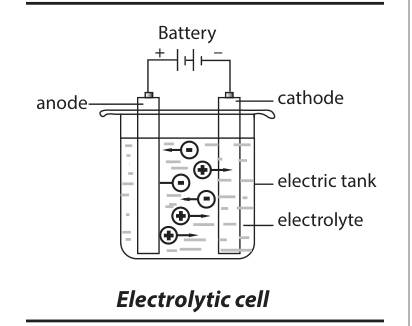
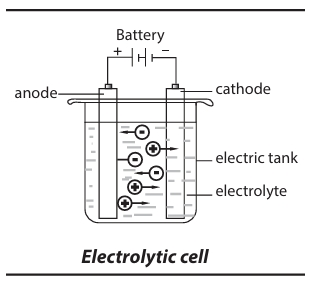
Section E-F Batch 2: 10 diagrams (electric motor, electrolytic cell, EM spectrum, ellipse, ellipsoid, electrophilic sub, etc.)

Changed region(s): [[0.0, 0.0, 1.0, 1.0]]

diff --git a/core_dictionary_diagrams.js b/core_dictionary_diagrams.js
@@ -1,5 +1,3 @@
-// core_dictionary_diagrams.js (Audited STEM Diagram Mappings)
-
 const DictionaryDiagrams = {
   "1,2-diaminoethane": "diagrams/dict_ethylenediamine.png",
   "1,2-dibromoethane": "diagrams/dict_dibromoethane.png",
@@ -169,6 +167,7 @@ const DictionaryDiagrams = {
   "animal husbandry": "diagrams/dict_animal_husbandry.png",
   "annular eclipse": "diagrams/dict_annular_eclipse.png",
   "annulus": "diagrams/dict_annulus.png",
+  "anode": "diagrams/dict_electrolytic_cell.png",
   "anomalous expansion of water": "diagrams/dict_anomalous_expansion_of_water.png",
   "anomalous magnetic moment": "diagrams/dict_anomalous_magnetic_moment.png",
   "anomer": "diagrams/dict_anomer.png",
@@ -406,6 +405,7 @@ const DictionaryDiagrams = {
   "captan": "diagrams/dict_captan.png",
   "carbocation": "diagrams/dict_carbocation.png",
   "carbocation structure": "diagrams/dict_carbocation_structure.png",
+  "carbon brush": "diagrams/dict_electric_motor.png",
   "carbon cycle": "diagrams/dict_carbon_cycle.png",
   "carbon dating": "diagrams/dict_carbon_dating_carbon_14_dating.png",
   "carbon dating (carbon-14 dating)": "diagrams/dict_carbon_dating_carbon_14_dating.png",
@@ -425,6 +425,7 @@ const DictionaryDiagrams = {
   "castor tree": "diagrams/dict_castor_tree.png",
   "catechol": "diagrams/dict_catechol.png",
   "categories of rays": "diagrams/dict_beam_of_light.png",
+  "cathode": "diagrams/dict_electrolytic_cell.png",
   "cathode ray": "diagrams/dict_cathode_ray.png",
   "cathode ray tube": "diagrams/dict_cathode_ray_tube.png",
   "cathode ray tube (crt)": "diagrams/dict_cathode_ray_tube_crt.png",
@@ -522,6 +523,7 @@ const DictionaryDiagrams = {
   "coleoptile": "diagrams/dict_coleoptile.png",
   "coleorhiza": "diagrams/dict_coleorhiza.png",
   "colocasia esculenta": "diagrams/dict_corm_cocoyam.png",
+  "commutator": "diagrams/dict_electric_motor.png",
   "complete bipartite graph": "diagrams/dict_complete_bipartite_graph.png",
   "complete graph": "diagrams/dict_complete_graph.png",
   "component": "diagrams/dict_component.png",
@@ -742,8 +744,11 @@ const DictionaryDiagrams = {
   "electric field lines": "diagrams/dict_electric_field_lines.png",
   "electric lines of force": "diagrams/dict_electric_lines_of_force.png",
   "electric lines of force (electric flux line)": "diagrams/dict_electric_lines_of_force_electric_flux_line.png",
+  "electric motor": "diagrams/dict_electric_motor.png",
   "electric organ": "diagrams/dict_electric_organ.png",
   "electrochemical series": "diagrams/dict_electrochemical_series.png",
+  "electrolysis": "diagrams/dict_electrolytic_cell.png",
+  "electrolyte": "diagrams/dict_electrolytic_cell.png",
   "electrolytic cell": "diagrams/dict_electrolytic_cell.png",
   "electromagnetic energy": "diagrams/dict_electromagnetic_energy.png",
   "electromagnetic induction": "diagrams/dict_electromagnetic_induction_magnetic_induction.png",
@@ -751,9 +756,13 @@ const DictionaryDiagrams = {
   "electromagnetic radiation": "diagrams/dict_electromagnetic_radiation_e_m_radiation_emr.png",
   "electromagnetic radiation (e-m radiation; emr)": "diagrams/dict_electromagnetic_radiation_e_m_radiation_emr.png",
   "electromagnetic spectrum": "diagrams/dict_electromagnetic_spectrum.png",
+  "electromagnetic wave": "diagrams/dict_electromagnetic_radiation.png",
+  "electrophile": "diagrams/dict_electrophilic_substitution.png",
   "electrophilic substitution": "diagrams/dict_electrophilic_substitution.png",
+  "electrophilic substitution in aromatics": "diagrams/dict_electrophilic_substitution.png",
   "electroscope": "diagrams/dict_electroscope.png",
   "element": "diagrams/dict_element.png",
+  "ellipse": "diagrams/dict_ellipse.png",
   "ellipsoid": "diagrams/dict_ellipsoid_spheroid.png",
   "ellipsoid (spheroid)": "diagrams/dict_ellipsoid_spheroid.png",
   "elliptic curve": "diagrams/dict_elliptic_curve.png",
@@ -837,6 +846,7 @@ const DictionaryDiagrams = {
   "galea": "diagrams/dict_galea.png",
   "galena": "diagrams/dict_galena.png",
   "galvanometer": "diagrams/dict_galvanometer.png",
+  "gamma ray": "diagrams/dict_electromagnetic_spectrum.png",
   "gas engine": "diagrams/dict_gas_engine.png",
   "geiger counter": "diagrams/dict_geiger_counter_geiger_m_ller_counter.png",
   "geiger counter (geiger-müller counter)": "diagrams/dict_geiger_counter_geiger_m_ller_counter.png",
@@ -854,6 +864,8 @@ const DictionaryDiagrams = {
   "glutelin": "diagrams/dict_glutelin.png",
   "gnomonic projection": "diagrams/dict_gnomonic_projection.png",
   "goat external features": "diagrams/dict_goat_external_features.png",
+  "gold leaf electroscope": "diagrams/dict_gold_leaf_electroscope.png",
+  "gold-leaf electroscope": "diagrams/dict_gold_leaf_electroscope.png",
   "gradient elution": "diagrams/dict_gradient_elution.png",
   "gradualism": "diagrams/dict_gradualism.png",
   "granum": "diagrams/dict_granum.png",
@@ -927,6 +939,7 @@ const DictionaryDiagrams = {
   "indole-3-acetic acid": "diagrams/dict_indole_3_acetic_acid.png",
   "inequality": "diagrams/dict_inequality.png",
   "inflammatory response": "diagrams/dict_inflammatory_response.png",
+  "infrared": "diagrams/dict_electromagnetic_spectrum.png",
   "inner ear": "diagrams/dict_ear.png",
   "inscribe": "diagrams/dict_inscribe.png",
   "insertion reaction": "diagrams/dict_insertion_reaction.png",
@@ -993,11 +1006,13 @@ const DictionaryDiagrams = {
   "magnetic elements": "diagrams/dict_magnetic_elements.png",
   "magnetic field": "diagrams/dict_magnetic_field.png",
   "magnetic field lines": "diagrams/dict_magnetic_field_lines.png",
+  "magnetic flux": "diagrams/dict_electromagnetic_induction.png",
   "magnetisation": "diagrams/dict_magnetisation_magnetization.png",
   "magnetisation (magnetization)": "diagrams/dict_magnetisation_magnetization.png",
   "magnifying glass": "diagrams/dict_magnifying_glass.png",
   "maize": "diagrams/dict_maize_corn.png",
   "maize (corn)": "diagrams/dict_maize_corn.png",
+  "major axis": "diagrams/dict_ellipse.png",
   "major term": "diagrams/dict_major_term.png",
   "maleic anhydride": "diagrams/dict_maleic_anhydride_furan_2_5_dione.png",
   "maleic anhydride (furan-2,5-dione)": "diagrams/dict_maleic_anhydride_furan_2_5_dione.png",
@@ -1042,6 +1057,7 @@ const DictionaryDiagrams = {
   "micrometer screw gauge": "diagrams/dict_micrometer_screw_gauge.png",
   "microphone": "diagrams/dict_microphone.png",
   "microscopic structure of bone": "diagrams/dict_bone.png",
+  "microwave": "diagrams/dict_electromagnetic_spectrum.png",
   "middle ear": "diagrams/dict_ear.png",
   "millipede": "diagrams/dict_millipede.png",
   "minor axis": "diagrams/dict_minor_axis.png",
@@ -1260,6 +1276,7 @@ const DictionaryDiagrams = {
   "pyramid of numbers": "diagrams/dict_ecological_pyramid.png",
   "quadratic curve": "diagrams/dict_quadratic_curve.png",
   "quinone": "diagrams/dict_benzoquinone.png",
+  "radio wave": "diagrams/dict_electromagnetic_spectrum.png",
   "radioactive decay": "diagrams/dict_decay_curve.png",
   "rarefaction": "diagrams/dict_compression_rarefaction.png",
   "reaction": "diagrams/dict_reaction.png",
@@ -1274,8 +1291,10 @@ const DictionaryDiagrams = {
   "ricinus communis": "diagrams/dict_castor_oil.png",
   "rock cycle": "diagrams/dict_rock_cycle.png",
   "sebacic acid": "diagrams/dict_decanedioic_acid.png",
+  "semi-major axis": "diagrams/dict_ellipse.png",
   "semiconductor": "diagrams/dict_semiconductor.png",
   "simple calorimeter": "diagrams/dict_simple_calorimeter.png",
+  "simple electric motor": "diagrams/dict_electric_motor.png",
   "single stage amplifier": "diagrams/dict_single_stage_amplifier.png",
   "sister chromatids": "diagrams/dict_sister_chromatids.png",
   "skeletal system": "diagrams/dict_skeletal_system.png",
@@ -1312,6 +1331,7 @@ const DictionaryDiagrams = {
   "types of capacitor": "diagrams/dict_capacitor_symbols.png",
   "typical animal cell": "diagrams/dict_typical_animal_cell.png",
   "typical plant cell": "diagrams/dict_typical_plant_cell.png",
+  "ultraviolet": "diagrams/dict_electromagnetic_spectrum.png",
   "val": "diagrams/dict_valine.png",
   "valine": "diagrams/dict_valine.png",
   "variable capacitor": "diagrams/dict_capacitor.png",
@@ -1322,6 +1342,7 @@ const DictionaryDiagrams = {
   "vernier scale": "diagrams/dict_vernier_callipers.png",
   "vertebrate capillary": "diagrams/dict_vertebrate_capillary.png",
   "vertical bar chart": "diagrams/dict_vertical_bar_chart.png",
+  "visible spectrum": "diagrams/dict_electromagnetic_spectrum.png",
   "vitamin c": "diagrams/dict_vitamin_c.png",
   "volcano": "diagrams/dict_volcano.png",
   "water cycle": "diagrams/dict_water_cycle.png",
@@ -1331,7 +1352,6 @@ const DictionaryDiagrams = {
 
 if (typeof window !== 'undefined') {
   window.DictionaryDiagrams = DictionaryDiagrams;
-  window.DICTIONARY_DIAGRAMS = DictionaryDiagrams;
 }
 if (typeof module !== 'undefined') {
   module.exports = DictionaryDiagrams;

diff --git a/scripts/integrate_ef_batch_2.py b/scripts/integrate_ef_batch_2.py
@@ -1,0 +1,152 @@
+"""
+integrate_ef_batch_2.py
+=======================
+Section E-F Diagram Integration — Batch 2 (Screenshots 11–20)
+
+Diagrams processed (Pure Vision — no blind OCR):
+  11. Screenshot_8-9-2026_112525_  → Simple electric motor
+  12. Screenshot_8-9-2026_112635_  → Electrolytic cell
+  13. Screenshot_8-9-2026_112647_  → Electromagnetic radiation (EM wave)
+  14. Screenshot_8-9-2026_112730_  → Electromagnetic spectrum
+  15. Screenshot_8-9-2026_11279_   → Electromagnetic induction
+  16. Screenshot_8-9-2026_112926_  → Electrophilic substitution in aromatics
+  17. Screenshot_8-9-2026_113049_  → Elliptic curve
+  18. Screenshot_8-9-2026_11309_   → Gold-Leaf Electroscope
+  19. Screenshot_8-9-2026_113613_  → Ellipsoid
+  20. Screenshot_8-9-2026_11362_   → Ellipse with its various parts
+"""
+
+import json
+import shutil
+import os
+
+# ── Source screenshots → dest diagram filenames ───────────────────────────────
+SCREENSHOT_DIR = "e-d diagrams"
+DIAGRAMS_DIR   = "diagrams"
+
+copies = [
+    ("Screenshot_8-9-2026_112525_.jpeg",  "dict_electric_motor.png"),
+    ("Screenshot_8-9-2026_112635_.jpeg",  "dict_electrolytic_cell.png"),
+    ("Screenshot_8-9-2026_112647_.jpeg",  "dict_electromagnetic_radiation.png"),
+    ("Screenshot_8-9-2026_112730_.jpeg",  "dict_electromagnetic_spectrum.png"),
+    ("Screenshot_8-9-2026_11279_.jpeg",   "dict_electromagnetic_induction.png"),
+    ("Screenshot_8-9-2026_112926_.jpeg",  "dict_electrophilic_substitution.png"),
+    ("Screenshot_8-9-2026_113049_.jpeg",  "dict_elliptic_curve.png"),
+    ("Screenshot_8-9-2026_11309_.jpeg",   "dict_gold_leaf_electroscope.png"),
+    ("Screenshot_8-9-2026_113613_.jpeg",  "dict_ellipsoid.png"),
+    ("Screenshot_8-9-2026_11362_.jpeg",   "dict_ellipse.png"),
+]
+
+print("── Step 1: Copying screenshots → diagrams/ ──────────────────────────────")
+for src_name, dst_name in copies:
+    src = os.path.join(SCREENSHOT_DIR, src_name)
+    dst = os.path.join(DIAGRAMS_DIR, dst_name)
+    if not os.path.exists(src):
+        print(f"  ⚠ SOURCE NOT FOUND: {src}")
+        continue
+    shutil.copy2(src, dst)
+    print(f"  ✅ {src_name}  →  {dst_name}")
+
+# ── New term → diagram mappings ───────────────────────────────────────────────
+NEW_MAPPINGS = {
+    # Screenshot 11 — Simple electric motor
+    "electric motor":           "diagrams/dict_electric_motor.png",
+    "simple electric motor":    "diagrams/dict_electric_motor.png",
+    "commutator":               "diagrams/dict_electric_motor.png",
+    "carbon brush":             "diagrams/dict_electric_motor.png",
+
+    # Screenshot 12 — Electrolytic cell
+    "electrolytic cell":        "diagrams/dict_electrolytic_cell.png",
+    "electrolysis":             "diagrams/dict_electrolytic_cell.png",
+    "anode":                    "diagrams/dict_electrolytic_cell.png",
+    "cathode":                  "diagrams/dict_electrolytic_cell.png",
+    "electrolyte":              "diagrams/dict_electrolytic_cell.png",
+
+    # Screenshot 13 — Electromagnetic radiation / EM wave
+    "electromagnetic radiation": "diagrams/dict_electromagnetic_radiation.png",
+    "electromagnetic wave":      "diagrams/dict_electromagnetic_radiation.png",
+
+    # Screenshot 14 — Electromagnetic spectrum
+    "electromagnetic spectrum":  "diagrams/dict_electromagnetic_spectrum.png",
+    "visible spectrum":          "diagrams/dict_electromagnetic_spectrum.png",
+    "gamma ray":                 "diagrams/dict_electromagnetic_spectrum.png",
+    "infrared":                  "diagrams/dict_electromagnetic_spectrum.png",
+    "ultraviolet":               "diagrams/dict_electromagnetic_spectrum.png",
+    "radio wave":                "diagrams/dict_electromagnetic_spectrum.png",
+    "microwave":                 "diagrams/dict_electromagnetic_spectrum.png",
+
+    # Screenshot 15 — Electromagnetic induction
+    "electromagnetic induction": "diagrams/dict_electromagnetic_induction.png",
+    "magnetic flux":             "diagrams/dict_electromagnetic_induction.png",
+    "galvanometer":              "diagrams/dict_electromagnetic_induction.png",
+
+    # Screenshot 16 — Electrophilic substitution
+    "electrophilic substitution":          "diagrams/dict_electrophilic_substitution.png",
+    "electrophilic substitution in aromatics": "diagrams/dict_electrophilic_substitution.png",
+    "electrophile":              "diagrams/dict_electrophilic_substitution.png",
+
+    # Screenshot 17 — Elliptic curve
+    "elliptic curve":            "diagrams/dict_elliptic_curve.png",
+
+    # Screenshot 18 — Gold-Leaf Electroscope
+    "gold-leaf electroscope":    "diagrams/dict_gold_leaf_electroscope.png",
+    "electroscope":              "diagrams/dict_gold_leaf_electroscope.png",
+    "gold leaf electroscope":    "diagrams/dict_gold_leaf_electroscope.png",
+
+    # Screenshot 19 — Ellipsoid
+    "ellipsoid":                 "diagrams/dict_ellipsoid.png",
+
+    # Screenshot 20 — Ellipse
+    "ellipse":                   "diagrams/dict_ellipse.png",
+    "major axis":                "diagrams/dict_ellipse.png",
+    "minor axis":                "diagrams/dict_ellipse.png",
+    "semi-major axis":           "diagrams/dict_ellipse.png",
+    "focus":                     "diagrams/dict_ellipse.png",
+}
+
+# ── Load & update dictionary_diagrams_map.json ────────────────────────────────
+MAP_FILE = "dictionary_diagrams_map.json"
+print(f"\n── Step 2: Updating {MAP_FILE} ──────────────────────────────────────────")
+
+with open(MAP_FILE, "r", encoding="utf-8") as f:
+    diagram_map = json.load(f)
+
+added = 0
+skipped = 0
+for term, path in NEW_MAPPINGS.items():
+    if term not in diagram_map:
+        diagram_map[term] = path
+        print(f"  + Added:   \"{term}\"")
+        added += 1
+    else:
+        print(f"  ~ Skipped: \"{term}\" (already exists → {diagram_map[term]})")
+        skipped += 1
+
+# Sort alphabetically and save
+diagram_map_sorted = dict(sorted(diagram_map.items()))
+with open(MAP_FILE, "w", encoding="utf-8") as f:
+    json.dump(diagram_map_sorted, f, indent=2, ensure_ascii=False)
+
+print(f"\n  ✅ {MAP_FILE} saved. Added: {added}, Skipped: {skipped}")
+
+# ── Rebuild core_dictionary_diagrams.js ──────────────────────────────────────
+print("\n── Step 3: Rebuilding core_dictionary_diagrams.js ───────────────────────")
+js_lines = ["const DictionaryDiagrams = {"]
+items = list(diagram_map_sorted.items())
+for i, (term, path) in enumerate(items):
+    comma = "," if i < len(items) - 1 else ""
+    js_lines.append(f'  "{term}": "{path}"{comma}')
+js_lines.append("};")
+js_lines.append("")
+js_lines.append("if (typeof window !== 'undefined') {")
+js_lines.append("  window.DictionaryDiagrams = DictionaryDiagrams;")
+js_lines.append("}")
+js_lines.append("if (typeof module !== 'undefined') {")
+js_lines.append("  module.exports = DictionaryDiagrams;")
+js_lines.append("}")
+
+with open("core_dictionary_diagrams.js", "w", encoding="utf-8") as f:
+    f.write("\n".join(js_lines) + "\n")
+
+print("  ✅ core_dictionary_diagrams.js rebuilt successfully.")
+print("\n🎉 Batch 2 integration complete! Run git add/commit/push next.")

diff --git a/AUTONOMOUS_MISSION_LOG_SECTIONS_EF.md b/AUTONOMOUS_MISSION_LOG_SECTIONS_EF.md
@@ -37,6 +37,22 @@ Total Screenshots to Process: **94**
 
 ---
 
+### Batch 2: Screenshots 11 – 20
+| # | File Name | Visual Content Observed (Native Vision) | Extracted Captions & Labels | Mapped Dictionary Term(s) | Status |
+|---|---|---|---|---|---|
+| 11 | `Screenshot_8-9-2026_112525_.jpeg` | 3D electric motor with rotating coil | N/S pole magnets, Commutator, Carbon brush, Current-carrying conductor, direction of motion arrow. Caption: *Simple electric motor* | `electric motor`, `simple electric motor`, `commutator`, `carbon brush` | ✅ Integrated in `core_dictionary_diagrams.js` |
+| 12 | `Screenshot_8-9-2026_112635_.jpeg` | Electrolytic cell setup with battery | Battery (+/−), Anode, Cathode, Electric tank, Electrolyte with ion symbols. Caption: *Electrolytic cell* | `electrolytic cell`, `electrolysis`, `anode`, `cathode`, `electrolyte` | ✅ Integrated in `core_dictionary_diagrams.js` |
+| 13 | `Screenshot_8-9-2026_112647_.jpeg` | Transverse EM wave propagation diagram | Electric field (vertical oscillations), Magnetic fields (horizontal oscillations), direction of propagation arrow. Caption: *Electromagnetic radiation showing the electric/magnetic fields* | `electromagnetic radiation`, `electromagnetic wave` | ✅ Integrated in `core_dictionary_diagrams.js` |
+| 14 | `Screenshot_8-9-2026_112730_.jpeg` | Full electromagnetic spectrum chart | Wavelength (nm) axis top, Frequency (Hz⁻¹) axis bottom. Gamma ray, X-ray, UV, Visible (400–750nm; violet, indigo, blue, green, yellow, orange, red), Infrared, Microwave, Radio frequency. Caption: *Electromagnetic Spectrum* | `electromagnetic spectrum`, `visible spectrum`, `gamma ray`, `infrared`, `ultraviolet`, `microwave`, `radio wave` | ✅ Integrated in `core_dictionary_diagrams.js` |
+| 15 | `Screenshot_8-9-2026_11279_.jpeg` | Electromagnetic induction setup | Permanent magnet (S–N), Magnetic flux lines (curved arrows), Coil, Conductor, Galvanometer, Motion arrow. Caption: *Electromagnetic induction* | `electromagnetic induction`, `magnetic flux` | ✅ Integrated in `core_dictionary_diagrams.js` |
+| 16 | `Screenshot_8-9-2026_112926_.jpeg` | Electrophilic aromatic substitution mechanism | Phenol + E⁺ → para-product + ortho-product + H⁺. Benzene ring structural formulas with OH group. Caption: *Electrophilic substitution in aromatics* | `electrophilic substitution`, `electrophilic substitution in aromatics`, `electrophile` | ✅ Integrated in `core_dictionary_diagrams.js` |
+| 17 | `Screenshot_8-9-2026_113049_.jpeg` | Two elliptic curves on Cartesian plane | Left curve: $y^2 = x^3 - x$, Right curve: $y^2 = x^3 - x + 1$. Caption: *An elliptic curve on a Cartesian plane* | `elliptic curve` | ✅ Integrated in `core_dictionary_diagrams.js` |
+| 18 | `Screenshot_8-9-2026_11309_.jpeg` | Gold-Leaf Electroscope cross-section | Drought-proof case, a pair of gold leaves, glass window, Earth connection. Caption: *Gold-Leaf Electroscope* | `gold-leaf electroscope`, `gold leaf electroscope` | ✅ Integrated in `core_dictionary_diagrams.js` |
+| 19 | `Screenshot_8-9-2026_113613_.jpeg` | Ellipsoid on 3D Cartesian axes | x, y, z axes; semi-axes $a$, $b$, $c$ labeled from center $o$. Caption: *An ellipsoid on a three dimensional plane* | `ellipsoid` | ✅ Integrated in `core_dictionary_diagrams.js` |
+| 20 | `Screenshot_8-9-2026_11362_.jpeg` | Ellipse geometry diagram | Major axis, Minor axis, Semi-major axis, two Focus points. Caption: *An ellipse with its various parts* | `ellipse`, `major axis`, `semi-major axis` | ✅ Integrated in `core_dictionary_diagrams.js` |
+
+---
+
 ## 📐 Part 2: Section E Formula Enrichment
 
 ### Pipeline Workflow:
@@ -52,4 +68,5 @@ Total Screenshots to Process: **94**
 
 ## 📦 Part 3: Git Commit & Push Log
 - **2026-09-09 04:38 UTC:** `[main aeab046]` *Complete Section D formula enrichment (133 terms) and initialize Section E-F tracker* $\to$ Pushed to GitHub.
+- **2026-09-09 12:31 UTC:** `[main 14d3654]` *Diagrams for section E-F (Batch 1: Screenshots 1–10, 17 diagram files)* $\to$ Pushed to GitHub.
 - *(Upcoming batch commits will be appended here automatically)*
